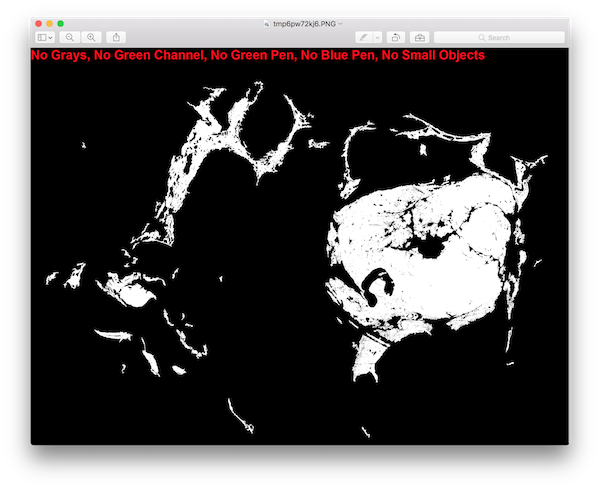
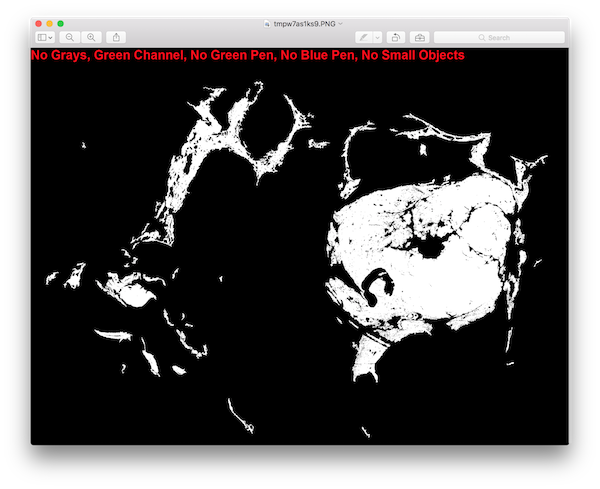
Update combination filter text

Changed region(s): [[0.15, 0.092, 0.81, 0.1227], [0.45, 0.0307, 0.54, 0.0613]]

diff --git a/wsi/filter.py b/wsi/filter.py
@@ -1432,9 +1432,9 @@ rgb = pil_to_np_rgb(img)
 add_text_and_display(rgb, "Original")
 mask = filter_grays(rgb) & filter_green_channel(rgb) & filter_green_pen(rgb) & filter_blue_pen(rgb)
 mask = filter_remove_small_objects(mask, min_size=100, output_type="bool")
-add_text_and_display(mask, "No Grays, No Green Channel, No Green Pen, No Blue Pen, No Small Objects")
+add_text_and_display(mask, "No Grays, Green Channel, No Green Pen, No Blue Pen, No Small Objects")
 add_text_and_display(mask_rgb(rgb, mask),
-                     "Original with No Grays, No Green Channel, No Green Pen, No Blue Pen, No Small Objects")
+                     "Original with No Grays, Green Channel, No Green Pen, No Blue Pen, No Small Objects")
 add_text_and_display(mask_rgb(rgb, ~mask), "Original with Inverse Mask")
 
 # no_green_pen = filter_green_pen(rgb)

diff --git a/docs/index.md b/docs/index.md
@@ -1695,7 +1695,7 @@ Mask RGB             | Time: 0:00:00.011881  Type: uint8   Shape: (1513, 2048, 3
 
 Let's try another combination of filters that should give us a fairly good tissue extraction, where the slide
 background and pen marks are removed. We can do this for this slide by ANDing together the "No Grays" filter, the
-"No Green Channel" filter, the "No Green Pen" filter, and the "No Blue Pen" filter. In addition, we can use our
+"Green Channel" filter, the "No Green Pen" filter, and the "No Blue Pen" filter. In addition, we can use our
 "Remove Small Objects" filter to remove small islands from the mask. We display the resulting mask. We apply
 this mask and the inverse of the mask to the original image to visually see which parts of the slide are passed through
 and which parts are masked out.
@@ -1707,9 +1707,9 @@ rgb = pil_to_np_rgb(img)
 add_text_and_display(rgb, "Original")
 mask = filter_grays(rgb) & filter_green_channel(rgb) & filter_green_pen(rgb) & filter_blue_pen(rgb)
 mask = filter_remove_small_objects(mask, min_size=100, output_type="bool")
-add_text_and_display(mask, "No Grays, No Green Channel, No Green Pen, No Blue Pen, No Small Objects")
+add_text_and_display(mask, "No Grays, Green Channel, No Green Pen, No Blue Pen, No Small Objects")
 add_text_and_display(mask_rgb(rgb, mask),
-                     "Original with No Grays, No Green Channel, No Green Pen, No Blue Pen, No Small Objects")
+                     "Original with No Grays, Green Channel, No Green Pen, No Blue Pen, No Small Objects")
 add_text_and_display(mask_rgb(rgb, ~mask), "Original with Inverse Mask")
 ```
 
